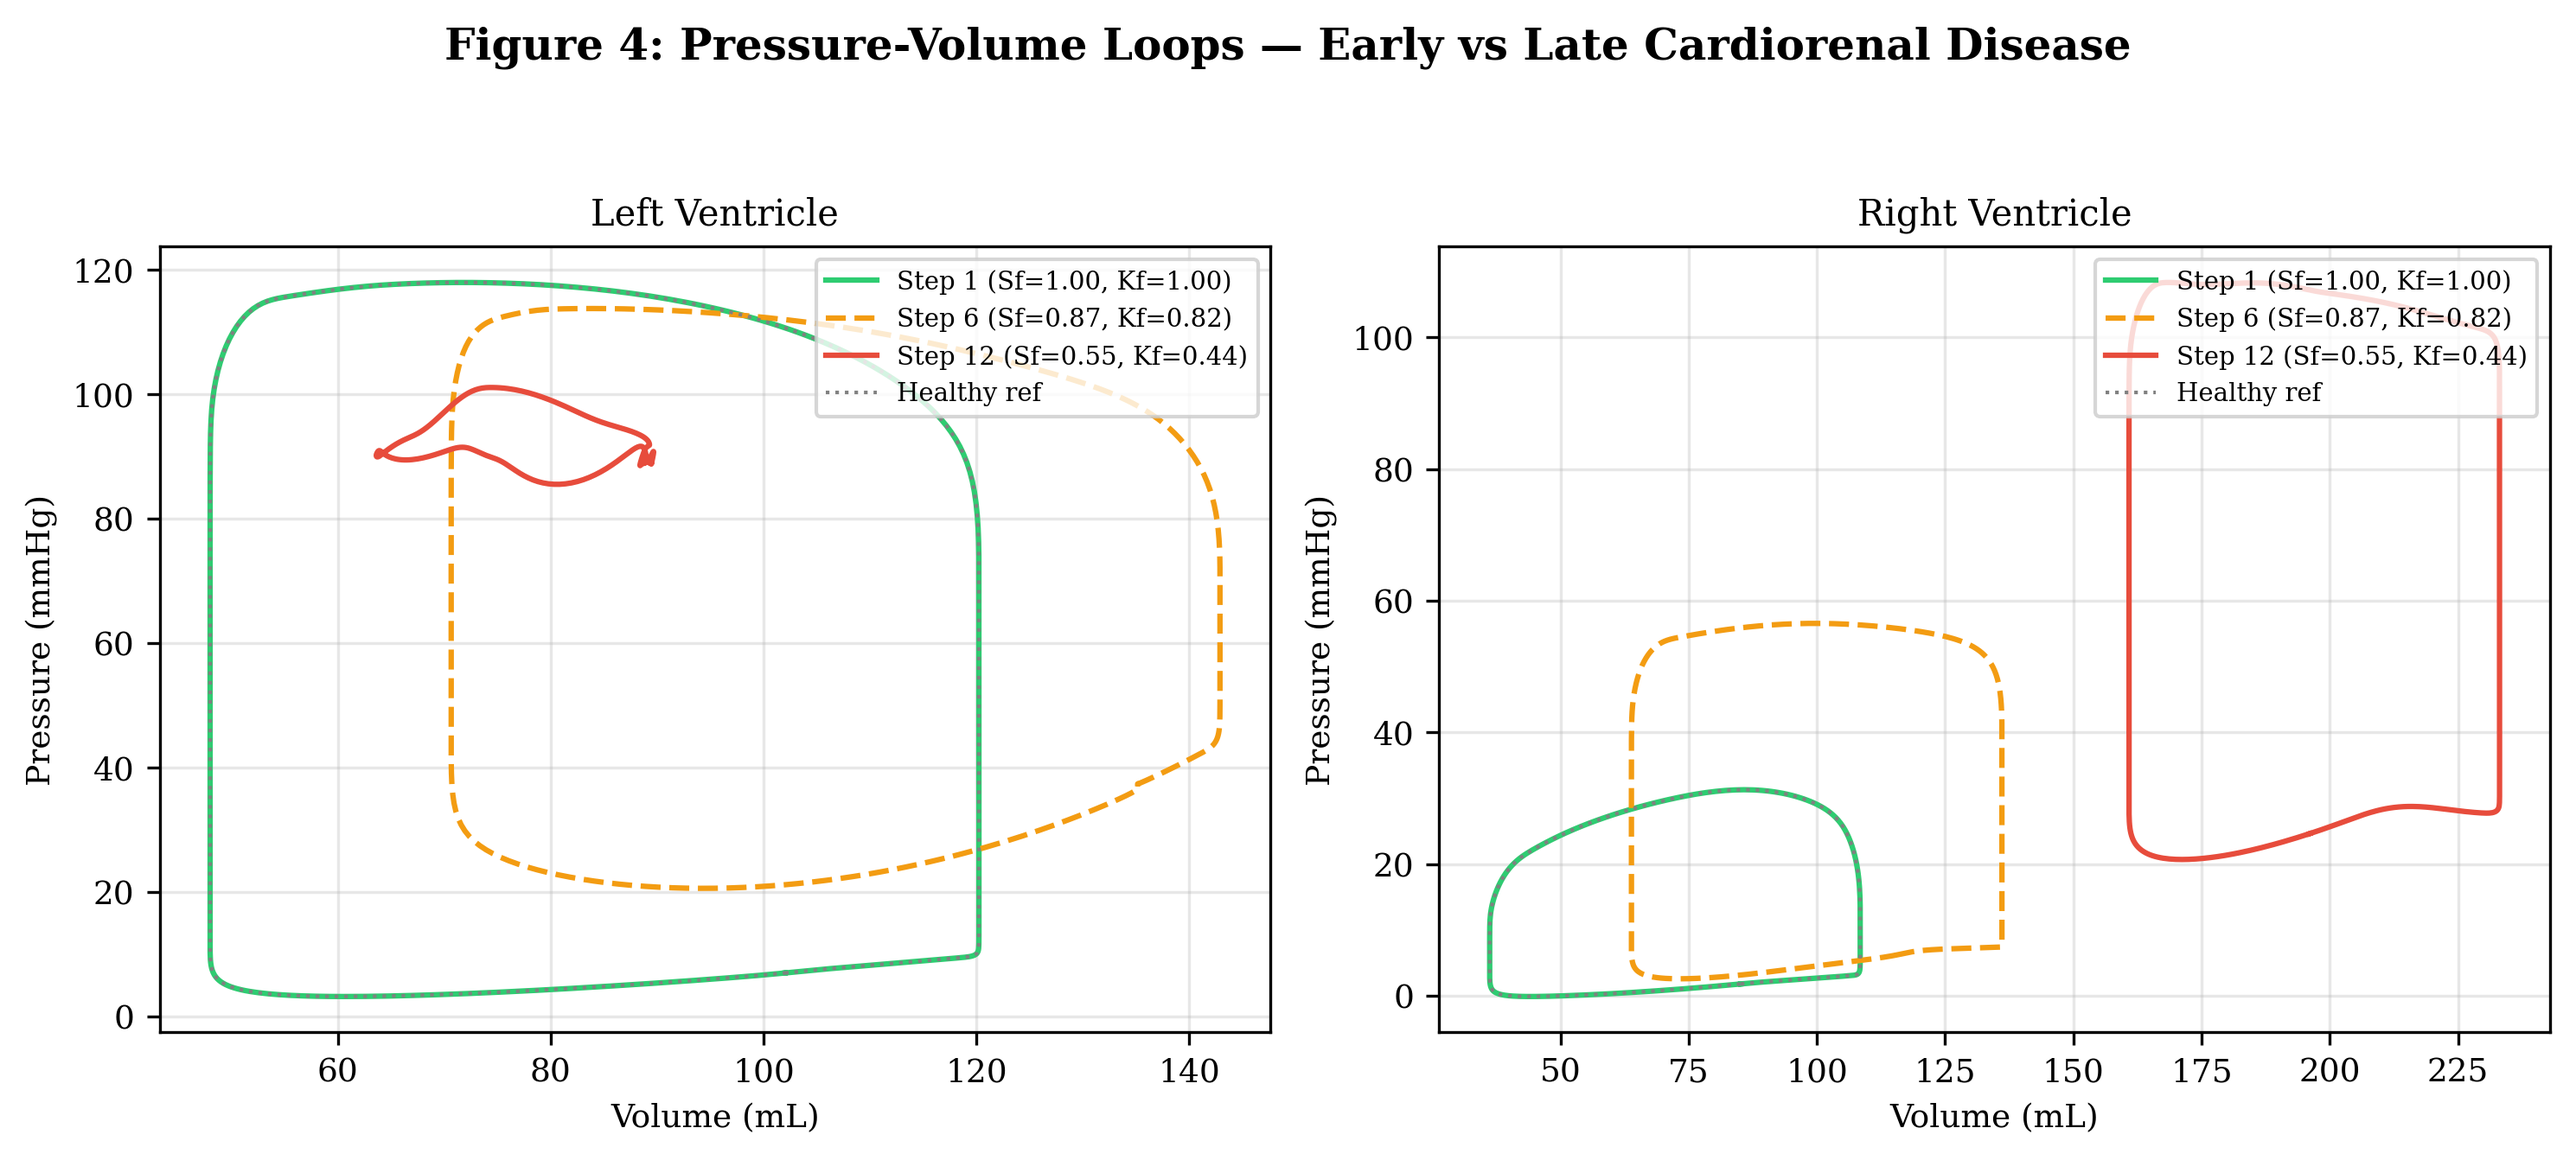
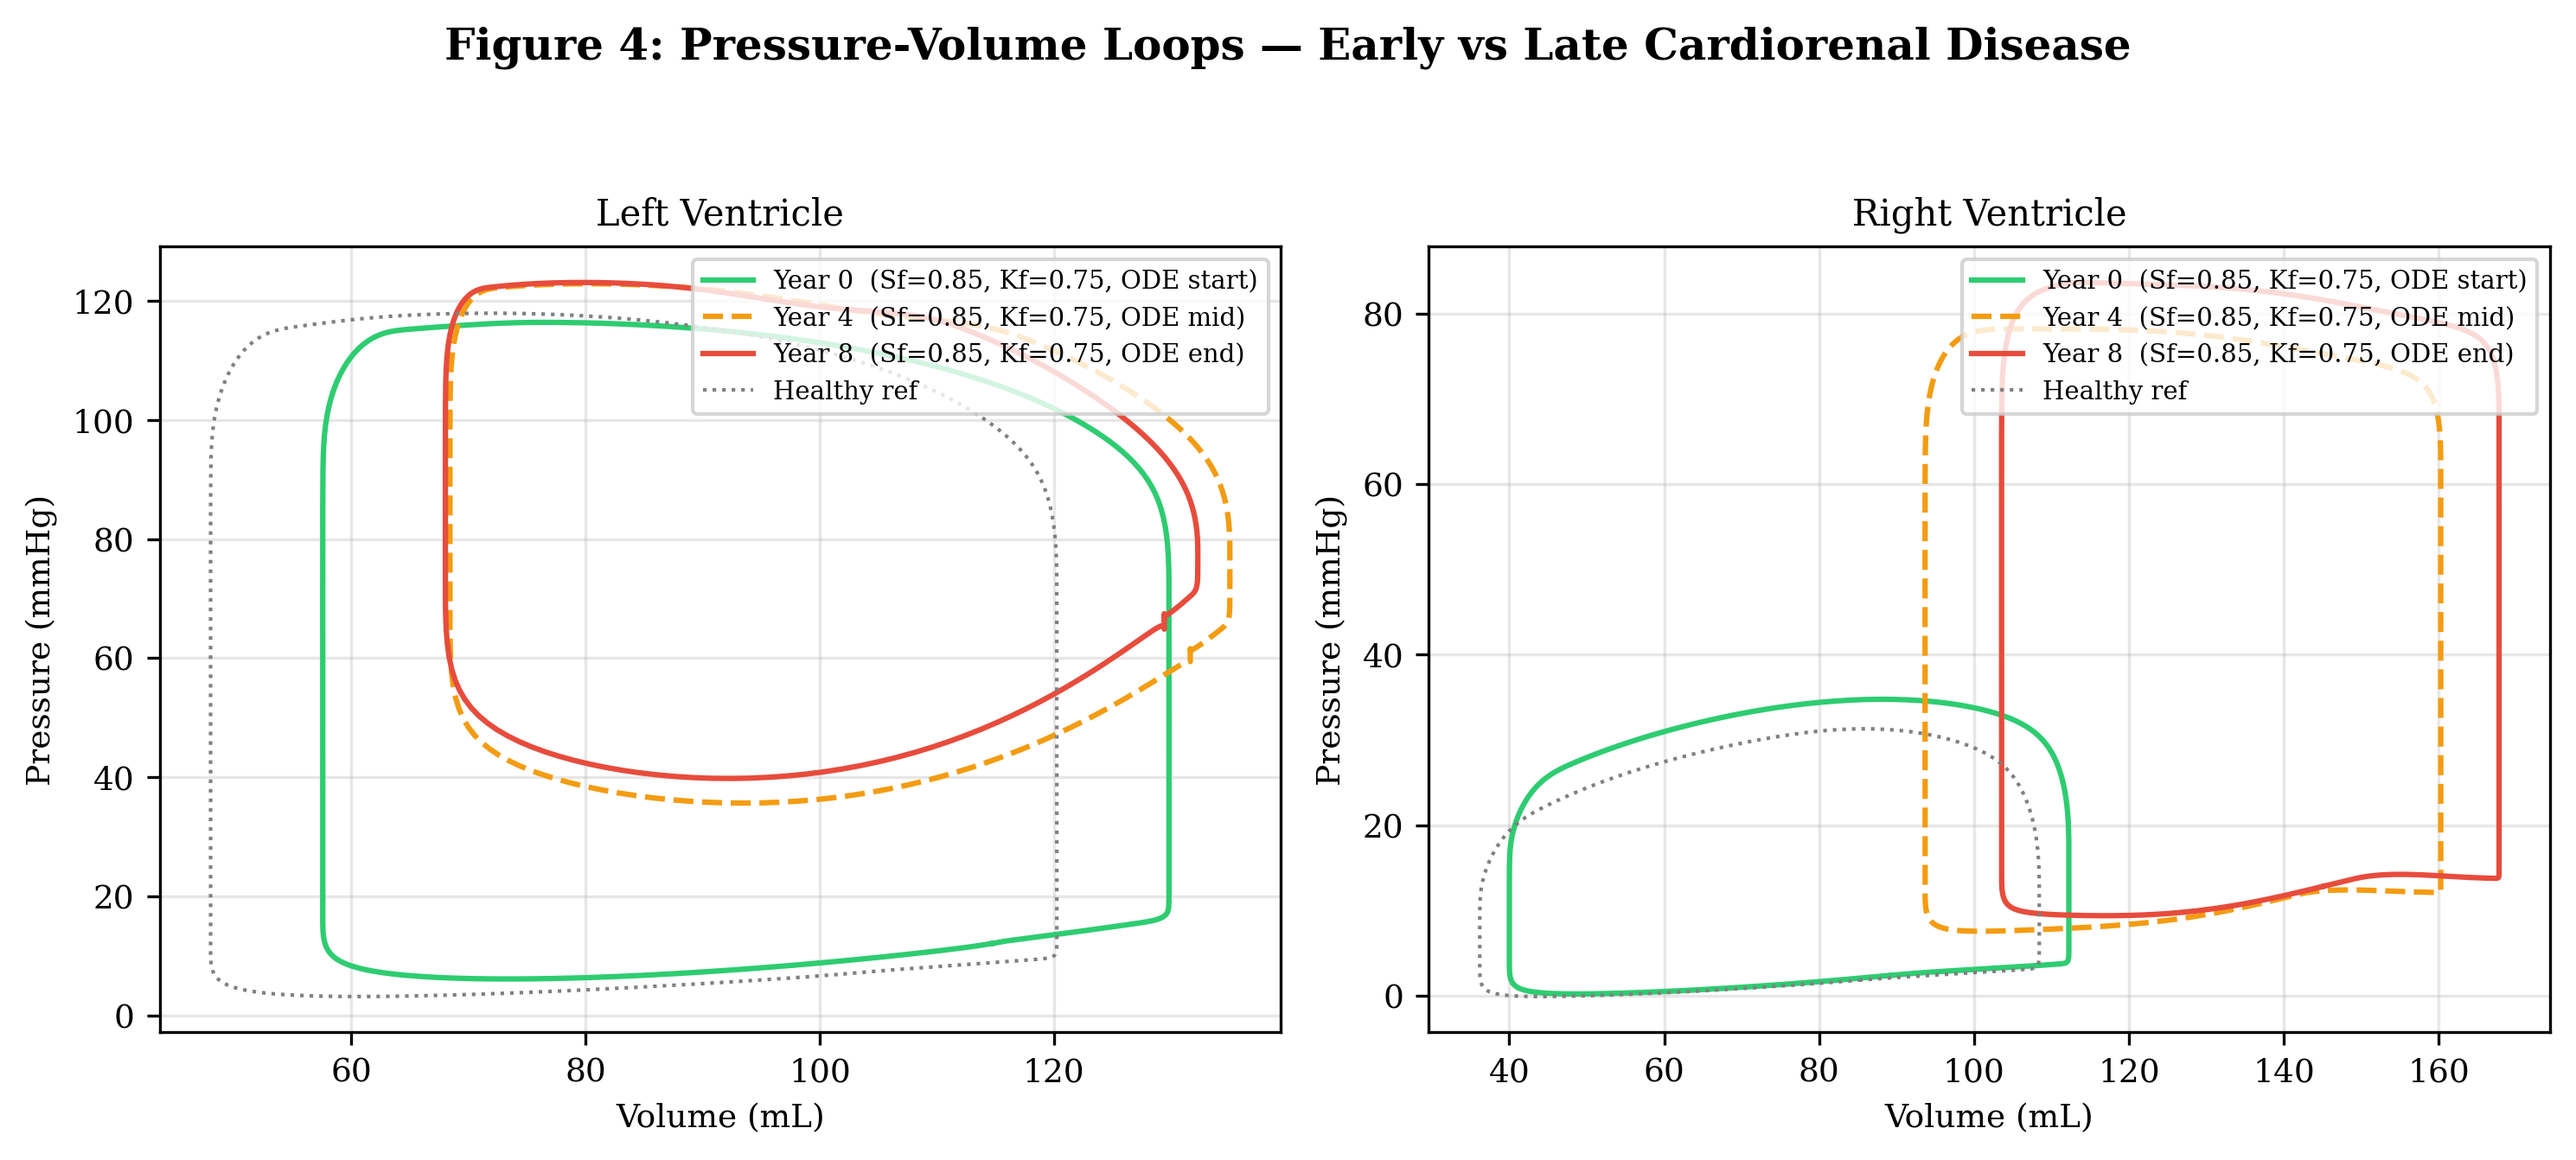
changes

diff --git a/research_figures.py b/research_figures.py
@@ -11,11 +11,45 @@ Usage:
     python research_figures.py
 """
 
+import json
+import os
+from datetime import datetime
+
 import numpy as np
 import matplotlib.pyplot as plt
 import matplotlib.gridspec as gridspec
 from matplotlib.patches import FancyArrowPatch
 from cardiorenal_coupling import run_coupled_simulation
+
+
+LOG_FILE = "logs/simulation_runs.jsonl"
+
+def _log_run(source: str, params: dict, hist: dict):
+    """Append per-step entries to simulation_runs.jsonl in the same format as agent tools."""
+    os.makedirs("logs", exist_ok=True)
+    n = len(hist["GFR"])
+    ts = datetime.now().strftime("%Y-%m-%dT%H:%M:%S")
+    with open(LOG_FILE, "a") as f:
+        for i in range(n):
+            entry = {
+                "timestamp": ts,
+                "source": source,
+                "success": True,
+                "params": params,
+                "step": i + 1,
+                "outputs": {
+                    "EF":       round(float(hist["EF"][i]),       2),
+                    "MAP":      round(float(hist["MAP"][i]),      2),
+                    "CO":       round(float(hist["CO"][i]),       2),
+                    "SV":       round(float(hist["SV"][i]),       2),
+                    "V_blood":  round(float(hist["V_blood"][i]),  2),
+                    "GFR":      round(float(hist["GFR"][i]),      2),
+                    "Na_excr":  round(float(hist["Na_excr"][i]),  2),
+                    "P_glom":   round(float(hist["P_glom"][i]),   2),
+                },
+            }
+            f.write(json.dumps(entry) + "\n")
+    print(f"  Logged {n} steps → {LOG_FILE}")
 
 # ── Style ──────────────────────────────────────────────────────────────
 plt.rcParams.update({
@@ -34,10 +68,26 @@ DISEASE_COLOR = '#e74c3c'
 INFLAM_COLOR  = '#9b59b6'
 MSG_H2K_COLOR = '#3498db'
 MSG_K2H_COLOR = '#e67e22'
-N_STEPS = 12
+N_STEPS         = 11520   # 8 years at 6h per coupling step (365.25*8*4 ≈ 11688, use 11520 = 96*120)
+STEPS_PER_MONTH = 120     # 30 days × 4 steps/day
+
+# ── Fixed disease parameters (ODE drives progression internally) ──────
+# These are CONSTANT inputs — the ODE layer (use_ode=True) accumulates
+# fibrosis, endothelial dysfunction, AGE, etc. over time and progressively
+# modifies both organ functions on top of these baselines.
+SF_DISEASE  = 0.85   # mild HFpEF contractility reduction
+KF_DISEASE  = 0.75   # ~25% reduction in filtration coefficient
+K1_DISEASE  = 1.30   # myocardial stiffening
+INFL        = 0.20   # mild chronic inflammation
+DIAB        = 0.40   # moderate diabetes
+
+DISEASE_PARAMS = {
+    "Sf_act_scale": SF_DISEASE, "Kf_scale": KF_DISEASE, "k1_scale": K1_DISEASE,
+    "inflammation_scale": INFL, "diabetes_scale": DIAB,
+}
 
 # ── Run simulations ───────────────────────────────────────────────────
-print("Running healthy baseline (12 steps)...")
+print(f"Running healthy baseline ({N_STEPS} steps = 8 years @ 6h) ...")
 healthy = run_coupled_simulation(
     n_steps=N_STEPS, dt_renal_hours=6.0,
     cardiac_schedule=[1.0]*N_STEPS,
@@ -46,35 +96,23 @@ healthy = run_coupled_simulation(
     inflammation_schedule=[0.0]*N_STEPS,
     diabetes_schedule=[0.0]*N_STEPS,
 )
+_log_run("research_figures/healthy", {"Sf_act_scale": 1.0, "Kf_scale": 1.0, "k1_scale": 1.0, "inflammation_scale": 0.0, "diabetes_scale": 0.0}, healthy)
 
-print("Running progressive disease (Weibull deterioration)...")
-# Weibull hazard functions (Section 3.3) for organ deterioration
-# D(t) = 1 - exp(-(t/lambda)^k)
-# Cardiac: lambda=8 months, k=2.5 (accelerating failure)
-# Renal:   lambda=10 months, k=2.0 (slightly slower)
-months = np.arange(N_STEPS)  # each coupling step = 1 month
-lambda_c, k_c = 8.0, 2.5     # cardiac Weibull params
-lambda_r, k_r = 10.0, 2.0    # renal Weibull params
-D_c = 1.0 - np.exp(-((months / lambda_c) ** k_c))  # cardiac damage [0,1]
-D_r = 1.0 - np.exp(-((months / lambda_r) ** k_r))  # renal damage [0,1]
-
-sf_sched  = np.maximum(0.3, 1.0 - D_c * 0.5).tolist()     # Sf: 1.0 → 0.5 (contractility loss)
-kf_sched  = np.maximum(0.1, 1.0 - D_r * 0.8).tolist()     # Kf: 1.0 → 0.2 (nephron loss)
-k1_sched  = (1.0 + D_c * 2.0).tolist()                     # k1: 1.0 → 3.0 (stiffening)
-infl_sched = (D_c * 0.4 + D_r * 0.3).tolist()              # inflammation driven by both organ damage
-diab_sched = (D_r * 0.5).tolist()                           # diabetes driven by renal damage
-
+print(f"Running disease progression ({N_STEPS} steps = 8 years, ODE-driven) ...")
 disease = run_coupled_simulation(
     n_steps=N_STEPS, dt_renal_hours=6.0,
-    cardiac_schedule=sf_sched,
-    kidney_schedule=kf_sched,
-    stiffness_schedule=k1_sched,
-    inflammation_schedule=infl_sched,
-    diabetes_schedule=diab_sched,
+    cardiac_schedule=[SF_DISEASE]*N_STEPS,
+    kidney_schedule=[KF_DISEASE]*N_STEPS,
+    stiffness_schedule=[K1_DISEASE]*N_STEPS,
+    inflammation_schedule=[INFL]*N_STEPS,
+    diabetes_schedule=[DIAB]*N_STEPS,
     use_ode=True,
 )
+_log_run("research_figures/disease", DISEASE_PARAMS, disease)
 
-steps = np.arange(1, N_STEPS + 1)
+# x-axis in years
+years = np.arange(1, N_STEPS + 1) / (STEPS_PER_MONTH * 12)
+steps = years  # alias used throughout figure code below
 
 
 # ═══════════════════════════════════════════════════════════════════════
@@ -101,7 +139,7 @@ for ax, (key, title, unit, ylim, hist_key) in zip(axes1.flat, panels):
     ax.plot(steps, d_vals, '-s', color=DISEASE_COLOR, ms=3, lw=1.5, label='Disease')
     ax.set_title(title)
     ax.set_ylabel(unit)
-    ax.set_xlabel('Coupling Step')
+    ax.set_xlabel('Time (years)')
     ax.set_ylim(ylim)
     ax.legend(loc='best')
     ax.grid(True, alpha=0.3)
@@ -211,14 +249,14 @@ ax_k2h_gfr.grid(True, alpha=0.3)
 # Row 2, col 3: Kidney outputs
 ax_kidney = fig2.add_subplot(gs[2, 3])
 ax_kidney.plot(steps, [float(v) for v in disease['Na_excr']], '-o', color=MSG_K2H_COLOR, ms=3, lw=1.5, label='Na excr')
-ax_kidney.axhline(137, color='gray', ls='--', lw=0.8, label='Na intake')
+ax_kidney.axhline(142, color='gray', ls='--', lw=0.8, label='Na intake')
 ax_kidney.set_title('Renal Function')
 ax_kidney.set_ylabel('mEq/day')
 ax_kidney.legend(loc='best')
 ax_kidney.grid(True, alpha=0.3)
 
 for ax in fig2.axes:
-    ax.set_xlabel('Coupling Step')
+    ax.set_xlabel('Time (years)')
 
 fig2.savefig('plots/fig2_message_passing.png')
 print("  Saved: plots/fig2_message_passing.png")
@@ -286,7 +324,7 @@ ax.legend(lines1+lines2, labels1+labels2, loc='best')
 ax.grid(True, alpha=0.3)
 
 for ax in axes3.flat:
-    ax.set_xlabel('Coupling Step')
+    ax.set_xlabel('Time (years)')
 
 fig3.tight_layout(rect=[0, 0, 1, 0.93])
 fig3.savefig('plots/fig3_inflammatory_mediators.png')
@@ -300,10 +338,11 @@ fig4, (ax_lv, ax_rv) = plt.subplots(1, 2, figsize=(10, 4.5))
 fig4.suptitle('Figure 4: Pressure-Volume Loops — Early vs Late Cardiorenal Disease',
               fontweight='bold', fontsize=12)
 
+yr4_idx = 4 * STEPS_PER_MONTH * 12   # step index at year 4
 for idx, label, color, ls in [
-    (0, f'Step 1 (Sf={sf_sched[0]:.2f}, Kf={kf_sched[0]:.2f})', HEALTHY_COLOR, '-'),
-    (5, f'Step 6 (Sf={sf_sched[5]:.2f}, Kf={kf_sched[5]:.2f})', '#f39c12', '--'),
-    (-1, f'Step {N_STEPS} (Sf={sf_sched[-1]:.2f}, Kf={kf_sched[-1]:.2f})', DISEASE_COLOR, '-'),
+    (0,        f'Year 0  (Sf={SF_DISEASE:.2f}, Kf={KF_DISEASE:.2f}, ODE start)', HEALTHY_COLOR, '-'),
+    (yr4_idx,  f'Year 4  (Sf={SF_DISEASE:.2f}, Kf={KF_DISEASE:.2f}, ODE mid)',   '#f39c12',     '--'),
+    (-1,       f'Year 8  (Sf={SF_DISEASE:.2f}, Kf={KF_DISEASE:.2f}, ODE end)',   DISEASE_COLOR, '-'),
 ]:
     v_lv, p_lv = disease['PV_LV'][idx]
     v_rv, p_rv = disease['PV_RV'][idx]
